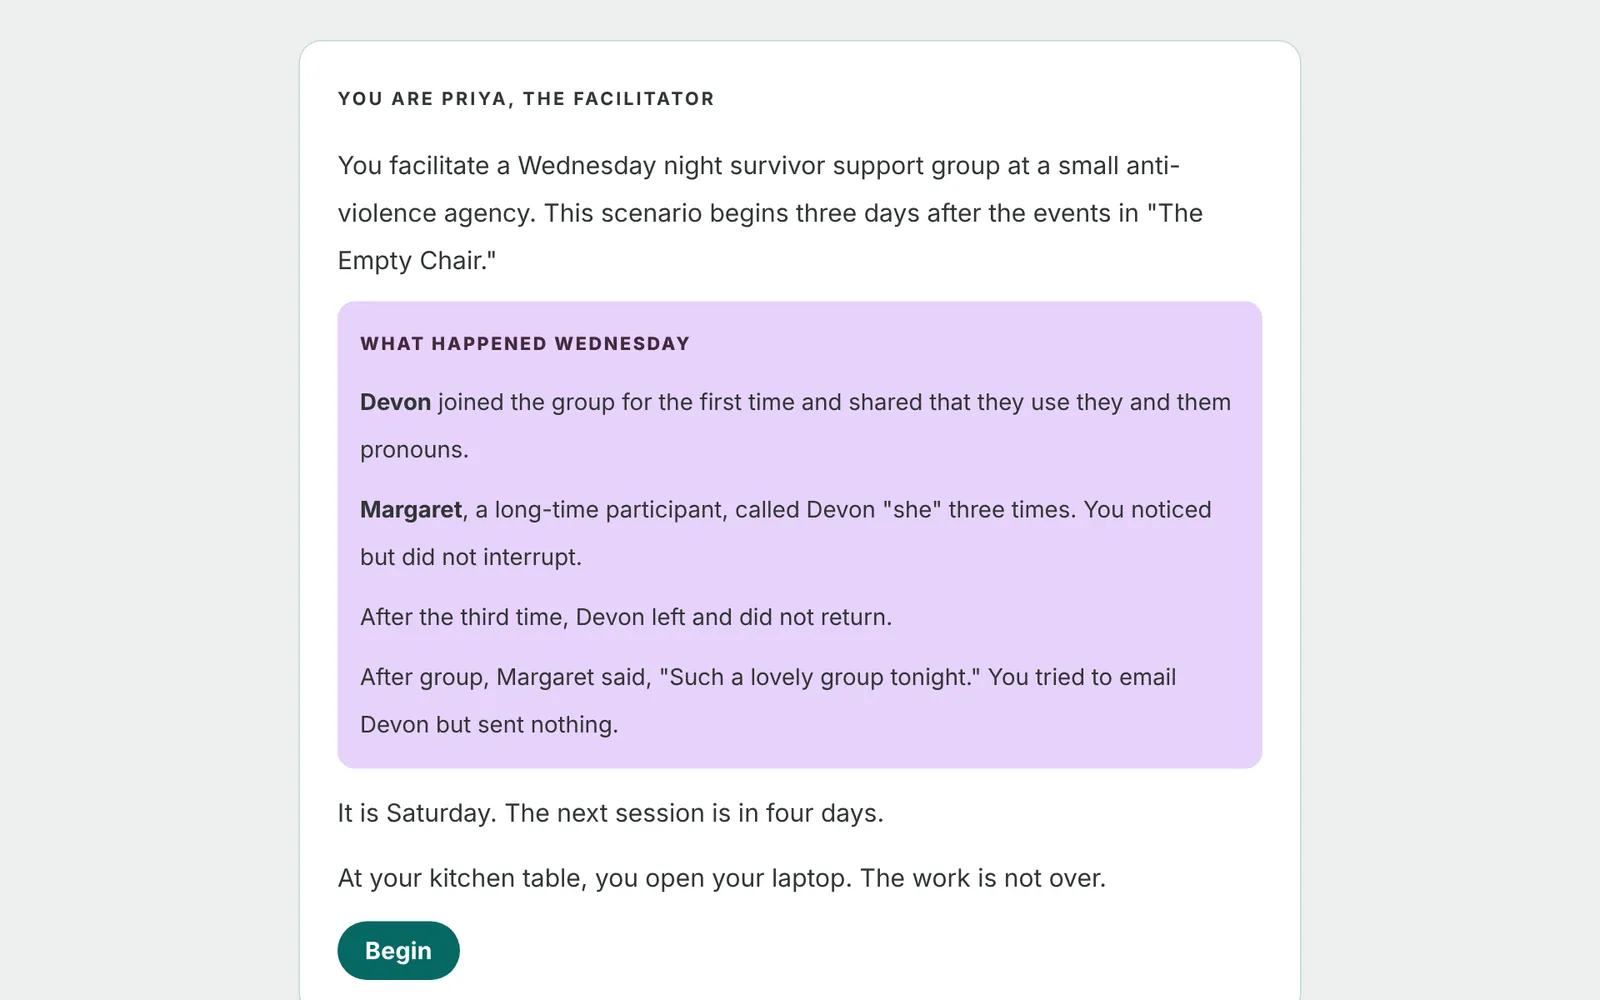
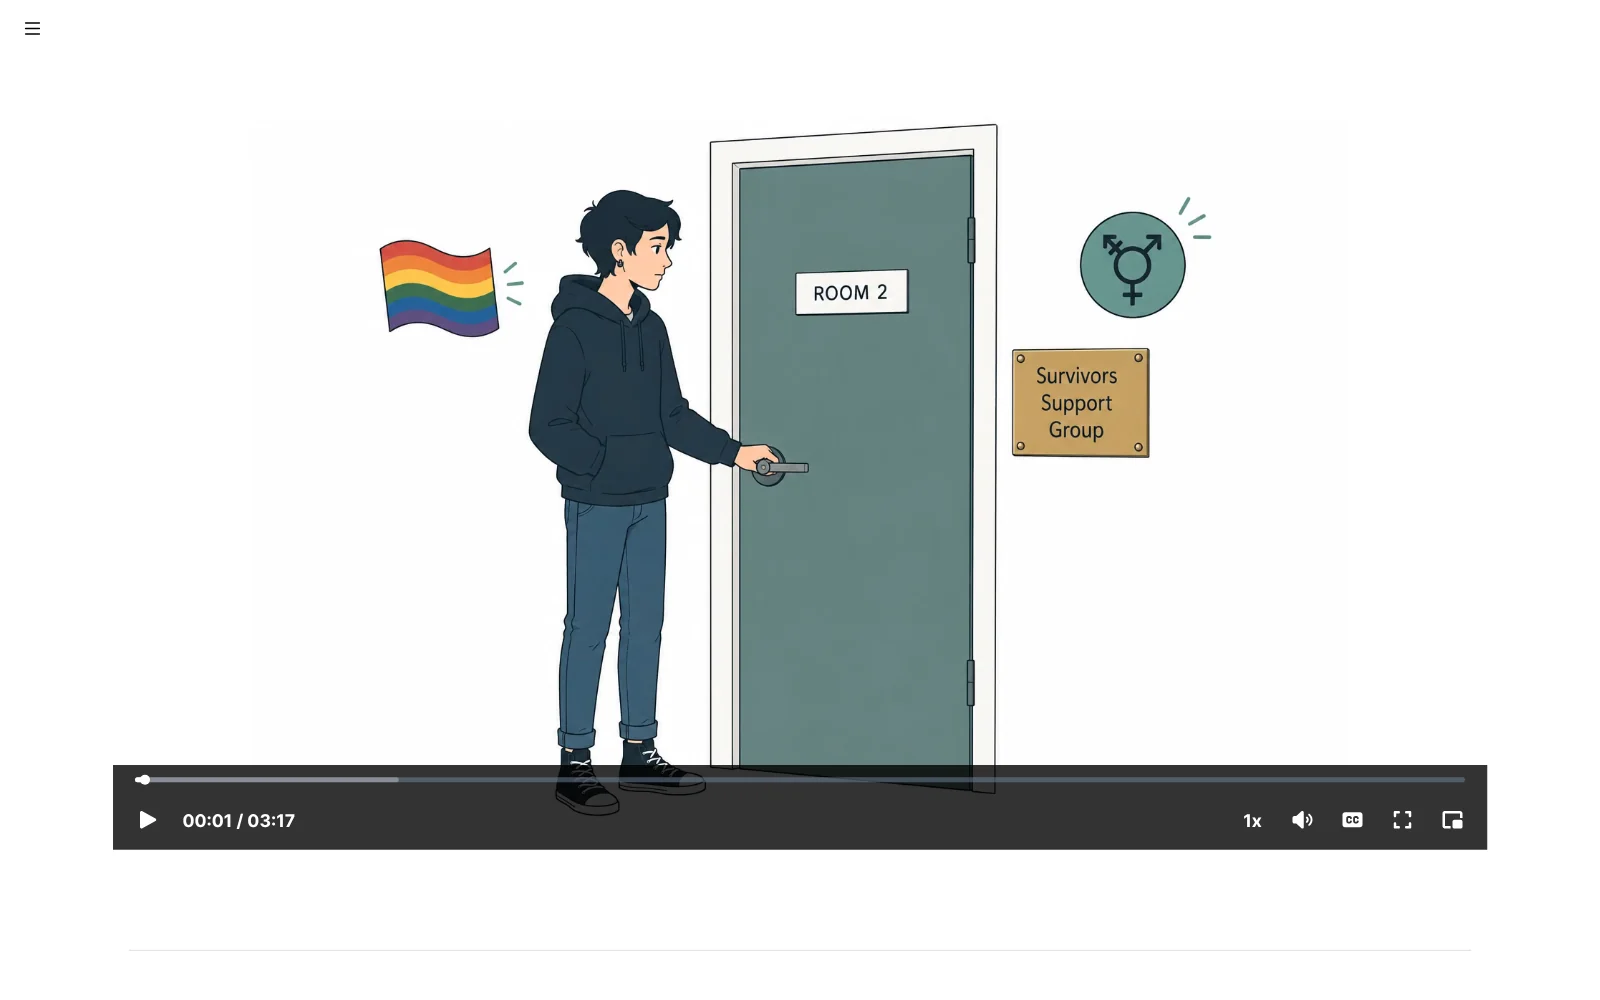
Apply copy edits and proofreading fixes; replace two support centre screenshots
- Home, case studies 2 to 4 and the course list page now match the copy doc
- Fixes: typos, verb agreement, serial commas, parallel structure, -ize spelling
- Support centre case study: new second image (narrated video) and third image (section opener), with new alt text

Claude-Session: https://claude.ai/code/session_01S1UUBuaSiAdFqgNkU5Mtmy

diff --git a/work/support-centre-course.html b/work/support-centre-course.html
@@ -24,7 +24,7 @@
 <main>
 <section class="case-head">
   <h1 class="display display--case">Course with branching scenarios for support centre staff</h1>
-  <p class="result">I restructured a course on inclusive practice and added branching scenarios where each choice changes what happens next.</p>
+  <p class="result">I turned a PDF guide on inclusive practice in the anti-violence sector into an interactive course, and added branching scenarios where making choices helps learners understand procedures.</p>
   <p class="actions">
     <a class="button" href="../demos/support-centre-course/content/index.html" target="_blank" rel="noopener">Open the course (new tab)</a>
     <a href="../demos/support-centre-course/content/index.html#/lessons/veWZyPVcF-_Ehrav3B4WtQ260ous-OQ5" target="_blank" rel="noopener">Go to the section with the scenarios (new tab)</a>
@@ -38,21 +38,21 @@
   <figcaption class="muted">In this referral scenario, the learner answers a crisis line call and decides what to do as the call unfolds.</figcaption>
 </figure>
 <div class="shots">
-  <figure><div class="preview"><img src="../assets/img/shots/support-centre-a.webp" width="1600" height="1000" loading="lazy" alt="The opening of a second scenario summarizes what happened at a support group on Wednesday before the learner begins."></div><figcaption class="muted">The second scenario continues a story learners have just watched.</figcaption></figure>
-  <figure><div class="preview"><img src="../assets/img/shots/support-centre-b.webp" width="1600" height="1000" loading="lazy" alt="The cover of the restructured course is shown in Rise."></div><figcaption class="muted">I rebuilt the course in Rise and organized it into nine sections.</figcaption></figure>
+  <figure><div class="preview"><img src="../assets/img/shots/support-centre-a.webp" width="1600" height="1000" loading="lazy" alt="A narrated video in the course opens on an illustration of a person in a hoodie at the door of a survivors support group, with the video controls below."></div><figcaption class="muted">I applied multimedia learning principles and created custom graphics, as well as a narrated video scenario.</figcaption></figure>
+  <figure><div class="preview"><img src="../assets/img/shots/support-centre-b.webp" width="1600" height="1000" loading="lazy" alt="The opening of section seven shows a large green heading, a subheading and an introductory paragraph on a pale background with a purple band across the top."></div><figcaption class="muted">I used the Mighty extension to build the course in Rise to achieve a clean, modern look that aligned with the guide’s branding.</figcaption></figure>
 </div>
 
 <section class="band band--tight" aria-labelledby="need">
   <h2 class="h2 h2--small" id="need">The need</h2>
-  <p>A sexual violence support centre asked me to restructure its course for staff at anti-violence organizations. The course teaches inclusive practice with queer and trans survivors.</p>
+  <p>A sexual violence support centre asked me to turn its PDF guide for staff at anti-violence organizations into an online, interactive course. The course teaches inclusive practice with queer and trans survivors of sexual violence.</p>
 </section>
 
 <section class="band band--tight" aria-labelledby="brief">
   <h2 class="h2 h2--small" id="brief">The brief</h2>
   <div>
-    <p>I rebuilt the course in nine sections in Rise and created a fillable reflection workbook. I also built two branching scenarios in custom HTML for section seven.</p>
+    <p>I used the Mighty extension to create a clean, modern course in Articulate Rise that aligned with the guide’s visual identity. It also helped me create a fillable reflection workbook where learners can keep the reflections they wrote in the course. I also built two branching scenarios in custom HTML for section seven.</p>
     <dl class="facts">
-      <div><dt>Role</dt><dd>Designer and developer</dd></div>
+      <div><dt>Role</dt><dd>Instructional designer and e-learning developer</dd></div>
       <div><dt>Tools</dt><dd>Rise, HTML, CSS, JavaScript, fillable PDF, Claude</dd></div>
     </dl>
   </div>
@@ -61,10 +61,10 @@
 <section class="band band--tight" aria-labelledby="decisions">
   <h2 class="h2 h2--small" id="decisions">Design decisions</h2>
   <ol class="decisions">
-    <li><span>Learners take on roles they hold at work. In one scenario, a crisis line worker helps a caller find somewhere safe to stay. In the other, a facilitator works to repair harm after a group session.</span></li>
-    <li><span>The facilitator scenario picks up where a video leaves off. Learners start with the context a facilitator would have in that situation.</span></li>
-    <li><span>Every option has a cost. The feedback asks learners to consider which response they reached for first and why.</span></li>
-    <li><span>The reflection questions are in a fillable workbook learners can download and keep.</span></li>
+    <li><span>I set each scenario in a role that learners might actually occupy at work, as a crisis line worker in one and a group facilitator in the other.</span></li>
+    <li><span>I started the facilitator scenario after a narrated video piece, so that learners begin with the context a facilitator would have.</span></li>
+    <li><span>I gave every option a consequence and wrote feedback that asks learners to reflect on which response they reached for first and why.</span></li>
+    <li><span>I put the reflection questions in a fillable workbook that learners can download and keep.</span></li>
   </ol>
 </section>
 
@@ -74,8 +74,8 @@
     <p class="muted">Making new things possible</p>
   </div>
   <div class="split">
-    <div><h3>What AI did</h3><p>Claude wrote the code for the branching scenarios from my scripts.</p></div>
-    <div><h3>What I did</h3><p>I restructured the course, wrote the scenarios with the centre, built the workbook and tested each path.</p></div>
+    <div><h3>What AI did</h3><p>Claude wrote the code for the branching scenarios from my scripts, and created a fillable PDF workbook based on the reflection questions throughout the course.</p></div>
+    <div><h3>What I did</h3><p>I structured the course based on the guide, co-wrote the scenarios with the centre, and decided to implement the reflection questions and corresponding workbook.</p></div>
   </div>
 </section>
 

diff --git a/work/waste-recycling-courses.html b/work/waste-recycling-courses.html
@@ -24,7 +24,7 @@
 <main>
 <section class="case-head">
   <h1 class="display display--case">Training series for the waste and recycling industry</h1>
-  <p class="result">I built five self-paced courses for one industry association, with custom interactive diagrams and decision scenarios in Rise.</p>
+  <p class="result">I built five self-paced courses for a non-profit technical training facility, with custom interactive diagrams and decision scenarios.</p>
   <p class="actions">
     <a class="button" href="../demos/waste-recycling-courses/index.html" target="_blank" rel="noopener">Open the five courses (new tab)</a>
   </p>
@@ -34,10 +34,10 @@
   <a class="preview preview--wide" href="../demos/waste-recycling-courses/index.html" target="_blank" rel="noopener" aria-label="Open the demo in a new tab">
     <img src="../assets/img/shots/waste-recycling-main.webp" width="1600" height="1000" alt="An interactive diagram shows the waste hierarchy as a funnel, from avoid at the top to dispose at the bottom, with an explanation panel beside it.">
   </a>
-  <figcaption class="muted">In this diagram from the circular economy course, selecting a level opens its explanation.</figcaption>
+  <figcaption class="muted">This is one example of the many interactive diagrams in the courses, which were made possible by custom HTML blocks and AI-generated code.</figcaption>
 </figure>
 <div class="shots">
-  <figure><div class="preview"><img src="../assets/img/shots/waste-recycling-a.webp" width="1600" height="1000" loading="lazy" alt="A response workflow from the asbestos course is shown as a path of six numbered photographs, from identifying suspect material to notifying a supervisor."></div><figcaption class="muted">The asbestos course uses the same response steps in each part of a site.</figcaption></figure>
+  <figure><div class="preview"><img src="../assets/img/shots/waste-recycling-a.webp" width="1600" height="1000" loading="lazy" alt="A response workflow from the asbestos course is shown as a path of six numbered photographs, from identifying suspect material to notifying a supervisor."></div><figcaption class="muted">The asbestos course uses a different style of interactive diagram to outline the response steps.</figcaption></figure>
   <figure><div class="preview"><img src="../assets/img/shots/waste-recycling-b.webp" width="1600" height="1000" loading="lazy" alt="A branching scenario called Caught in the Yard opens with a description of the job and a drawing of a transfer station yard."></div><figcaption class="muted">This branching scenario is from the site safety course.</figcaption></figure>
 </div>
 
@@ -49,9 +49,9 @@
 <section class="band band--tight" aria-labelledby="brief">
   <h2 class="h2 h2--small" id="brief">The brief</h2>
   <div>
-    <p>I designed and built five courses in Rise. Each includes narrated introductions and knowledge checks. You can open all five courses using the links above.</p>
+    <p>I designed and built all five courses in Articulate Rise. At the request of the client, they include narrated introductions and knowledge checks. They also contain many custom HTML blocks that allowed for custom interactions, which helped break up text-heavy content and reduce cognitive load.</p>
     <dl class="facts">
-      <div><dt>Role</dt><dd>Designer and developer</dd></div>
+      <div><dt>Role</dt><dd>Instructional designer and e-learning developer</dd></div>
       <div><dt>Tools</dt><dd>Rise, HTML, CSS, JavaScript, Claude</dd></div>
     </dl>
   </div>
@@ -61,9 +61,9 @@
   <h2 class="h2 h2--small" id="decisions">Design decisions</h2>
   <ol class="decisions">
     <li><span>When a standard Rise block couldn’t show a process or system, I built and embedded a custom interactive diagram. There are about 70 across the five courses.</span></li>
-    <li><span>The site safety and driver courses end with branching scenarios set during a workday. In one, drivers make ten decisions over a single shift.</span></li>
+    <li><span>The site safety and driver courses end with branching scenarios set during a workday. In one of these scenarios, drivers make ten decisions over a single shift.</span></li>
     <li><span>The asbestos course repeats the same response steps in each part of a site. Wherever workers are, the sequence is the same (identify, stop, isolate, notify).</span></li>
-    <li><span>I used one specification for type, colour and behaviour so the custom diagrams and scenarios fit the surrounding course.</span></li>
+    <li><span>I used one specification for type, colour, and behaviour so the custom diagrams and scenarios fit the surrounding course.</span></li>
   </ol>
 </section>
 
@@ -73,8 +73,8 @@
     <p class="muted">Making new things possible</p>
   </div>
   <div class="split">
-    <div><h3>What AI did</h3><p>Claude wrote the code for the custom diagrams and scenarios using the design specifications I set for the series.</p></div>
-    <div><h3>What I did</h3><p>I designed the courses, wrote the specification and decided where a custom diagram or scenario was needed. I assembled and tested everything in Rise.</p></div>
+    <div><h3>What AI did</h3><p>Claude wrote the code for the custom diagrams and scenarios using the design specifications I set for the series. Articulate AI provided the voiceovers.</p></div>
+    <div><h3>What I did</h3><p>I designed the courses, built them in Rise, wrote the design specifications, and decided where a custom diagram or scenario was needed. I assembled and tested everything in Rise.</p></div>
   </div>
 </section>
 

diff --git a/work/crisis-line-course.html b/work/crisis-line-course.html
@@ -39,20 +39,20 @@
 </figure>
 <div class="shots">
   <figure><div class="preview"><img src="../assets/img/shots/crisis-line-a.webp" width="1600" height="1000" loading="lazy" alt="This module 7 activity has an audio recording of a caller and three possible responses."></div><figcaption class="muted">In module 7, responders can choose between two branching simulations, where they engage with a caller or texter and choose how to respond at each phase of the interaction.</figcaption></figure>
-  <figure><div class="preview"><img src="../assets/img/shots/crisis-line-b.webp" width="1600" height="1000" loading="lazy" alt="The opening screen of a topic in module 1 is titled Preparing for the interaction."></div><figcaption class="muted">Each module alternates short topics with activities.</figcaption></figure>
+  <figure><div class="preview"><img src="../assets/img/shots/crisis-line-b.webp" width="1600" height="1000" loading="lazy" alt="The opening screen of a topic in module 1 is titled Preparing for the interaction."></div><figcaption class="muted">I used Claude to develop rapid digital prototypes of my storyboards so that SMEs could review an interactive version, rather than only reading a Word document.</figcaption></figure>
 </div>
 
 <section class="band band--tight" aria-labelledby="need">
   <h2 class="h2 h2--small" id="need">The need</h2>
-  <p>A national crisis helpline at a mental health hospital needed a shared foundation in core skills for its responders. The course is expected to reach more than 1,200 responders.</p>
+  <p>A national suicide crisis helpline at a mental health hospital needed a shared foundational course that teaches core skills to its responders. The course is expected to reach more than 1,200 responders.</p>
 </section>
 
 <section class="band band--tight" aria-labelledby="brief">
   <h2 class="h2 h2--small" id="brief">The brief</h2>
   <div>
-    <p>I lead the design and development of a seven-module, self-paced course that takes five to six hours to complete. I revise the content through several rounds of feedback from clinical subject matter experts and a 20-member advisory group. For a long module, it takes about two weeks to go from needs analysis to a working prototype.</p>
+    <p>I led the design and development of a seven-module, self-paced course that takes around five to six hours to complete. I gathered the research to ensure the course is evidence based, wrote the content, and revised the course through several rounds of feedback from clinical subject matter experts and a 20-member advisory group. For each module, it took about two weeks to go from needs analysis to a working prototype.</p>
     <dl class="facts">
-      <div><dt>Role</dt><dd>Lead designer and developer</dd></div>
+      <div><dt>Role</dt><dd>Lead instructional designer</dd></div>
       <div><dt>Tools</dt><dd>HTML, CSS, JavaScript, Claude</dd></div>
     </dl>
   </div>
@@ -61,10 +61,10 @@
 <section class="band band--tight" aria-labelledby="decisions">
   <h2 class="h2 h2--small" id="decisions">Design decisions</h2>
   <ol class="decisions">
-    <li><span>Each module alternates short topics with activities. Module 1 covers three topics and five activities in about 30 minutes.</span></li>
-    <li><span>Responders practise in the formats they use at work. They read the opening of a text conversation or listen to the start of a recorded call, write or choose a response, and see how the person reacts.</span></li>
-    <li><span>Practice is unscored. Feedback explains the strongest response. Responders can also explore the other options to see how the person would have reacted.</span></li>
-    <li><span>Building the modules in HTML gave me full control over how the conversation and audio activities work.</span></li>
+    <li><span>I built each module around scenarios and practice activities, and included only the content responders need to complete them.</span></li>
+    <li><span>I wrote the content so that learning happens through intrinsic feedback first (i.e., the caller’s or texter’s reaction to each choice), followed by a brief explanation.</span></li>
+    <li><span>I placed examples ahead of explanations so that responders can compare responses before they read why one is more effective.</span></li>
+    <li><span>I ended each module by openly acknowledging that e-learning cannot build all of these skills alone, and identified the skills that still need live practice with a supervisor, such as tone of voice.</span></li>
   </ol>
 </section>
 
@@ -74,8 +74,8 @@
     <p class="muted">Making new things possible</p>
   </div>
   <div class="split">
-    <div><h3>What AI did</h3><p>Claude wrote the code for each module from my storyboards and specifications.</p></div>
-    <div><h3>What I did</h3><p>I did the needs analysis, reviewed the literature and wrote the outlines and storyboards. I worked with the subject matter experts and advisory group and reviewed every screen.</p></div>
+    <div><h3>What AI did</h3><p>Claude helped find relevant research, scanned instructional design literature to help make needs analysis and activity templates for skills-based courses, and wrote the code for the rapid digital prototypes you see above.</p></div>
+    <div><h3>What I did</h3><p>I conducted the needs analysis with SMEs, reviewed the literature, and wrote the outlines and storyboards. I worked with the subject matter experts and advisory groups to review the content in depth.</p></div>
   </div>
 </section>
 

diff --git a/demos/waste-recycling-courses/index.html b/demos/waste-recycling-courses/index.html
@@ -24,14 +24,14 @@
 <main class="hub">
 <section class="case-head">
   <h1 class="display display--case">Training series for the waste and recycling industry</h1>
-  <p class="result">I built these five courses in Rise for one industry association. Each course opens in a new tab.</p>
+  <p class="result">Here are the links to all five courses. Each course opens in a new tab.</p>
 </section>
 <section class="more" id="courses" aria-label="The five courses">
   <ul class="more__grid">
     <li class="more__item">
       <a class="preview" href="industry-introduction/content/index.html" target="_blank" rel="noopener" aria-label="Open the industry introduction course in a new tab"><img src="../../assets/img/shots/waste-recycling-intro.webp" width="1600" height="1000" alt="A diagram follows recyclable material through five numbered stages, from the household bin to new products."></a>
       <h3>Industry introduction</h3>
-      <p>Eight topics cover the fundamentals of waste management and resource recovery.</p>
+      <p>This course covers the fundamentals of waste management and resource recovery.</p>
       <p class="more__links"><a href="industry-introduction/content/index.html" target="_blank" rel="noopener">Open the course (new tab)</a></p>
     </li>
     <li class="more__item">
@@ -49,13 +49,13 @@
     <li class="more__item">
       <a class="preview" href="asbestos-risk/content/index.html" target="_blank" rel="noopener" aria-label="Open the asbestos risk course in a new tab"><img src="../../assets/img/shots/waste-recycling-a.webp" width="1600" height="1000" alt="A response workflow is shown as a path of six numbered photographs."></a>
       <h3>Asbestos risk</h3>
-      <p>Workers learn to recognise asbestos risk and respond to it. They use the same response steps in each part of a site.</p>
+      <p>In this course, workers learn to recognize asbestos risk and respond to it. They use the same response steps in each part of a site.</p>
       <p class="more__links"><a href="asbestos-risk/content/index.html" target="_blank" rel="noopener">Open the course (new tab)</a></p>
     </li>
     <li class="more__item">
       <a class="preview" href="circular-economy/content/index.html" target="_blank" rel="noopener" aria-label="Open the circular economy course in a new tab"><img src="../../assets/img/shots/waste-recycling-main.webp" width="1600" height="1000" alt="An interactive diagram shows the waste hierarchy as a funnel."></a>
       <h3>Circular economy</h3>
-      <p>Nine topics explain the circular economy and what it means for the industry, with interactive diagrams throughout.</p>
+      <p>This course covers the circular economy and what it means for the industry, with interactive diagrams throughout.</p>
       <p class="more__links"><a href="circular-economy/content/index.html" target="_blank" rel="noopener">Open the course (new tab)</a></p>
     </li>
   </ul>

diff --git a/index.html b/index.html
@@ -25,7 +25,7 @@
 <section class="hero">
   <div class="hero__text">
     <h1 class="display">I design and build learning that <em>changes how people do their work.</em></h1>
-    <p class="lede">I’m a learning experience designer with almost 15 years of experience in healthcare, higher education and freelance e-learning. Here are some of the courses, simulations, and scenarios I’ve designed and built recently.</p>
+    <p class="lede">I’m a learning experience designer with almost 15 years of experience in healthcare, higher education, and freelance e-learning. Here are some of the courses, simulations, and scenarios I’ve designed and built recently.</p>
   </div>
   <img class="hero__photo" src="assets/img/headshot.webp" width="1100" height="1025" alt="Jordan Coop">
 </section>
@@ -141,8 +141,8 @@
 <section class="band band--ai" aria-labelledby="ai">
   <h2 class="h2" id="ai">How I use AI</h2>
   <div>
-    <p class="lede">The first way I use AI is as a productivity partner. In my projects, I leverage it to help process large volumes of information and perform the tedious parts of learning design work. So far, I’ve found that outsourcing these tasks gives me more time for decisions that need my judgement as an instructional designer.</p>
-    <p class="lede">The second way I use it is to make possible what was previously impractical. I use it to quickly improve existing learning projects, for example by quickly turning a narrated screen recording into a simulation. It also helps me build more robust learning objects, like custom branching scenarios and high-fidelity interactions that used to be impossible on a typical budget or timeline.</p>
+    <p class="lede">The first way I use AI is as a productivity partner. In my projects, I leverage it to help process large volumes of information and perform the tedious parts of learning design work. So far, I’ve found not only that it has sped up my workflow and allowed me to increase output, but also that outsourcing these tasks gives me more time for decisions that need my judgement as an instructional designer.</p>
+    <p class="lede">The second way I use it is to make possible what was previously impractical. I use it to improve existing learning projects, for example by quickly turning a narrated screen recording into a simulation. It also helps me build more robust learning objects, like custom branching scenarios and high-fidelity interactions that used to be impossible on a typical budget or timeline.</p>
   </div>
 </section>
 </main>

diff --git a/work/commercial-card-simulation.html b/work/commercial-card-simulation.html
@@ -74,7 +74,7 @@
     <p class="muted">Improving existing learning</p>
   </div>
   <div class="split">
-    <div><h3>What AI did</h3><p>Claude wrote the HTML, CSS and JavaScript for the simulation using my screenshots, the original tutorial, and my specifications.</p></div>
+    <div><h3>What AI did</h3><p>Claude wrote the HTML, CSS, and JavaScript for the simulation using my screenshots, the original tutorial, and my specifications.</p></div>
     <div><h3>What I did</h3><p>I chose the tasks, decided on the structure of the simulation, planned how administrators would practise them, checked the content against the platform, and tested every step.</p></div>
   </div>
 </section>
